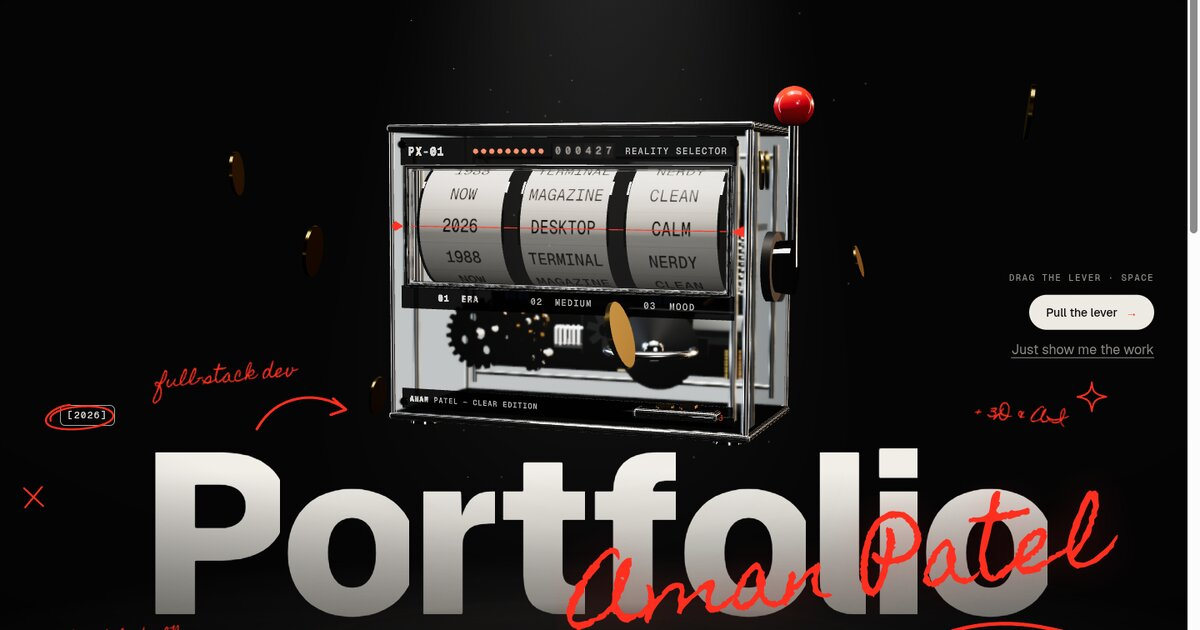
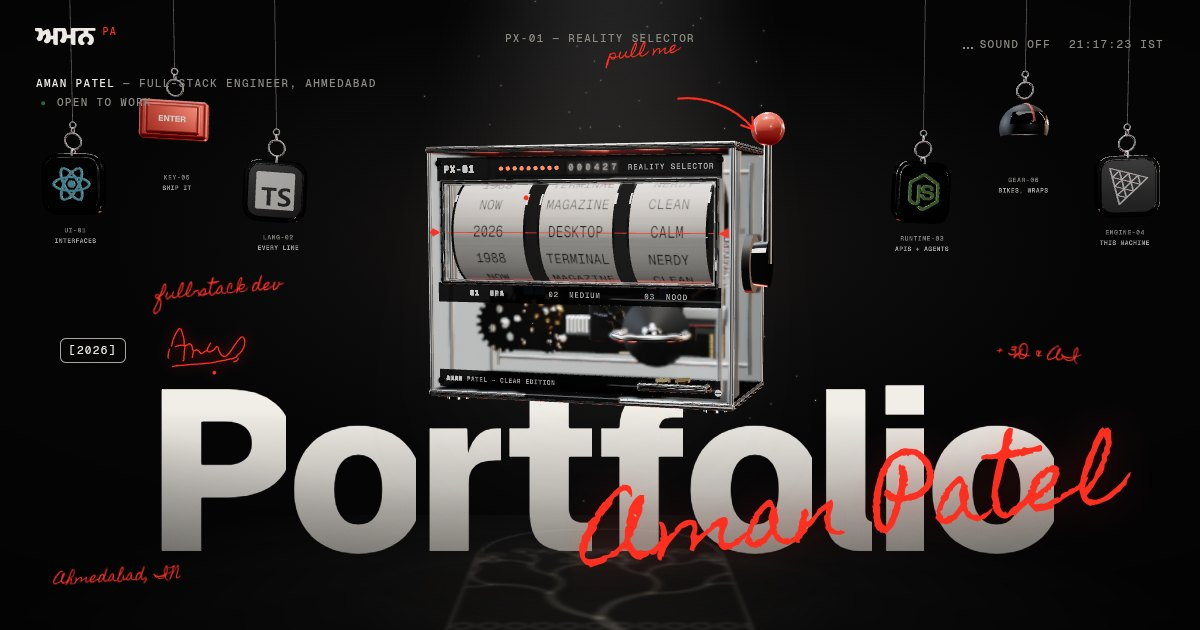
Mobile: swipeable work carousel with counter, compact index, quick dock (Résumé/Email/Work), shorter win ticket on phones; fix handwriting clash with the contact form; short-laptop CTA fit; new OG image

diff --git a/src/home/home.css b/src/home/home.css
@@ -502,20 +502,57 @@
 .hero :is(.ink, .cta, .hero-word, .tabs, .ident, .scroll-hint) { filter: opacity(calc(1 - var(--dive, 0) * 1.8)); }
 
 /* contact note: hairline fields on the dunes */
-.note, .note-sent { width: min(460px, 100%); display: flex; flex-direction: column; gap: 12px; margin-top: 10px; cursor: auto; }
-.note-row { display: grid; grid-template-columns: 1fr 1.3fr; gap: 12px; }
-.note :is(input, textarea) {
+.msg, .msg-sent { width: min(460px, 100%); display: flex; flex-direction: column; gap: 12px; margin-top: 10px; cursor: auto; }
+.msg-row { display: grid; grid-template-columns: 1fr 1.3fr; gap: 12px; }
+.msg :is(input, textarea) {
     font: 400 15px/1.4 "Geist", sans-serif; color: var(--bone); background: rgba(5, 5, 6, .55); backdrop-filter: blur(3px);
     border: 0; border-bottom: 1px solid rgba(237, 234, 227, .22); padding: 12px 2px; outline: none; resize: vertical; border-radius: 0;
     transition: border-color .2s;
 }
-.note :is(input, textarea)::placeholder { color: rgba(237, 234, 227, .4); }
-.note :is(input, textarea):focus { border-bottom-color: var(--signal); }
-.note .hp { position: absolute; left: -9999px; width: 1px; height: 1px; opacity: 0; }
-.note-foot { display: flex; justify-content: space-between; align-items: center; gap: 16px; }
-.note-foot .mono { text-transform: none; letter-spacing: .02em; }
-.note-foot a { color: var(--bone); }
-.home .note .block-btn:disabled { opacity: .6; cursor: progress; }
-.note-sent p:last-child { margin: 0; font: 400 15px/1.5 "Geist", sans-serif; color: var(--bone); }
-.note-sent .red { color: var(--signal); }
-@media (max-width: 760px) { .note-row { grid-template-columns: 1fr; } }
+.msg :is(input, textarea)::placeholder { color: rgba(237, 234, 227, .4); }
+.msg :is(input, textarea):focus { border-bottom-color: var(--signal); }
+.msg .hp { position: absolute; left: -9999px; width: 1px; height: 1px; opacity: 0; }
+.msg-foot { display: flex; justify-content: space-between; align-items: center; gap: 16px; }
+.msg-foot .mono { text-transform: none; letter-spacing: .02em; }
+.msg-foot a { color: var(--bone); }
+.home .msg .block-btn:disabled { opacity: .6; cursor: progress; }
+.msg-sent p:last-child { margin: 0; font: 400 15px/1.5 "Geist", sans-serif; color: var(--bone); }
+.msg-sent .red { color: var(--signal); }
+@media (max-width: 760px) { .msg-row { grid-template-columns: 1fr; } }
+
+/* ------------------------------------------------------------ phones: swipe the work, compact index, quick dock */
+.swipe-hint, .dock-m { display: none; }
+@media (max-width: 760px) {
+    .cards {
+        display: flex; gap: 14px; overflow-x: auto; scroll-snap-type: x mandatory; overscroll-behavior-x: contain;
+        margin: 0 calc(var(--gutter) * -1); padding: 4px var(--gutter) 6px; scrollbar-width: none;
+    }
+    .cards::-webkit-scrollbar { display: none; }
+    .card { flex: 0 0 84%; scroll-snap-align: center; animation: none; }
+    .card-line { font-size: 13.5px; }
+    .swipe-hint { display: flex; justify-content: space-between; margin-top: 18px !important; }
+    .swipe-hint span { color: var(--signal); }
+    .card-meta .live { display: table; margin: 8px 0 0; }
+    .filters { flex-wrap: nowrap; overflow-x: auto; margin: 0 calc(var(--gutter) * -1); padding: 0 var(--gutter); scrollbar-width: none; }
+    .home .filters button { flex: none; }
+    .keys { grid-template-columns: 1fr 1fr; gap: 22px 12px; }
+    .keys-group:first-child { grid-column: 1 / -1; }
+    .home .key { padding: 12px 30px 12px 12px; }
+    .key .k-label { font-size: 15px; }
+    .keys-group:not(:first-child) .k-hint { display: none; }
+    .keys-sub { font-size: 12px; margin-bottom: 10px; }
+    .dock-m {
+        display: flex; position: fixed; z-index: 60; left: 50%; bottom: calc(14px + env(safe-area-inset-bottom)); transform: translate(-50%, 140%);
+        gap: 4px; padding: 6px; border-radius: 999px; background: rgba(20, 20, 22, .82); border: 1px solid rgba(237, 234, 227, .14);
+        backdrop-filter: blur(14px); -webkit-backdrop-filter: blur(14px); box-shadow: 0 16px 40px rgba(0, 0, 0, .5);
+        transition: transform .5s cubic-bezier(.16, 1, .3, 1); white-space: nowrap;
+    }
+    .dock-m[data-on] { transform: translate(-50%, 0); }
+    .home .dock-m > * { font: 500 13px/1 "Geist", sans-serif; color: var(--bone); text-decoration: none; padding: 11px 14px; border-radius: 999px; display: inline-flex; align-items: center; }
+    .dock-m > a:first-child { background: var(--bone); color: #0b0b0c; }
+    .dock-m > *:active { transform: scale(.95); }
+    .dock-m .k-dot { width: 14px; height: 14px; border-radius: 50%; background: radial-gradient(circle at 35% 30%, #ff8a7a, var(--signal) 45%, #8f140b); box-shadow: 0 0 14px rgba(255, 46, 31, .6); }
+}
+
+/* short laptop screens (1366×768 and below): the CTA's explainer line would run into the keychain labels */
+@media (min-width: 761px) and (max-height: 780px) { .cta-sub { display: none; } .cta { top: 54%; } }

diff --git a/src/home/Home.jsx b/src/home/Home.jsx
@@ -174,21 +174,21 @@ const ContactForm = ({ onSent }) => {
         } catch { setState({ phase: "fallback", msg: "", href: mail() }); }
     };
     if (state.phase === "sent") return (
-        <div className="note-sent" role="status">
+        <div className="msg-sent" role="status">
             <p className="mono red">Delivered{state.msg ? ` · ${state.msg}` : ""}</p>
             <p>Thanks. It's in my inbox, and my reply goes to the address you gave.</p>
         </div>
     );
     return (
-        <form className="note" onSubmit={submit}>
+        <form className="msg" onSubmit={submit}>
             <p className="mono">Or send a note through the machine</p>
-            <div className="note-row">
+            <div className="msg-row">
                 <input name="name" required maxLength={80} placeholder="Your name" autoComplete="name" aria-label="Your name" />
                 <input name="email" type="email" required maxLength={200} placeholder="Email" autoComplete="email" aria-label="Your email" />
             </div>
             <textarea name="message" required minLength={10} maxLength={4000} rows={3} placeholder="What are we building?" aria-label="Message" />
             <input name="website" tabIndex={-1} autoComplete="off" className="hp" aria-hidden />
-            <div className="note-foot">
+            <div className="msg-foot">
                 <p className="mono" aria-live="polite">
                     {state.phase === "fallback" ? <a href={state.href}>{state.msg || "The machine is offline."} Open it in your mail app ↗</a> : state.msg}
                 </p>
@@ -227,6 +227,8 @@ const Home = ({ onSelect }) => {
     const enterBtn = useRef(null);
     const heroOn = useInView(hero);
     const footerOn = useInView(footer, "200px");
+    const land = useRef(null);
+    const landOn = useInView(land);                  // the contact area (the quick dock hides there: same actions on screen)
     const [fontsOk, setFontsOk] = useState(false);
     const [booted, setBooted] = useState(false);
     const [phase, setPhase] = useState("idle");
@@ -428,7 +430,7 @@ const Home = ({ onSelect }) => {
                 <Experience />
                 <Skills />
 
-                <div className="land" onClick={ripple}>
+                <div ref={land} className="land" onClick={ripple}>
                     <div className="foot-dots" aria-hidden>
                         <Suspense fallback={null}><DotField active={footerOn} eventSource={footer} pulse={pulse} /></Suspense>
                     </div>
@@ -478,6 +480,13 @@ const Home = ({ onSelect }) => {
                     </div>
                 </div>
             </footer>
+            {/* phones: résumé and email stay one tap away once the machine is off screen */}
+            <nav className="dock-m" data-on={(!heroOn && !landOn) || undefined} aria-label="Quick actions">
+                <a href={profile.resume} target="_blank" rel="noreferrer" onClick={() => track("resume_opened", { from: "dock" })}>Résumé ↓</a>
+                <a href={`mailto:${profile.email}`}>Email</a>
+                <button type="button" onClick={() => document.querySelector(".work")?.scrollIntoView({ behavior: "smooth" })}>Work</button>
+                <button type="button" aria-label="Back to the machine" onClick={() => hero.current.scrollIntoView({ behavior: "smooth" })}><i className="k-dot" aria-hidden /></button>
+            </nav>
             <Cursor />
         </main>
     );

diff --git a/src/home/Work.jsx b/src/home/Work.jsx
@@ -12,6 +12,7 @@ const host = (u = "") => u.replace(/^https?:\/\//, "").replace(/\/$/, "");
 const FIRST = 9;
 const reduced = () => matchMedia("(prefers-reduced-motion: reduce)").matches;
 const touch = () => matchMedia("(pointer: coarse)").matches;
+const phone = () => matchMedia("(max-width: 760px)").matches;
 const linkedin = socials.find((s) => s.text === "LinkedIn")?.link;
 
 const Leaving = ({ item, rect }) => {
@@ -39,7 +40,9 @@ export default function Work() {
     const list = useRef(null);
 
     const shown = work.filter((w) => kind === "all" || w.kind === kind);
-    const visible = all ? shown : shown.slice(0, FIRST);
+    const [isPhone] = useState(phone);                  // phones: every card in one swipeable row
+    const visible = all || isPhone ? shown : shown.slice(0, FIRST);
+    const [at, setAt] = useState(0);
 
     // back from the project (bfcache) → drop the transition overlay
     useEffect(() => {
@@ -50,10 +53,14 @@ export default function Work() {
     // touch: the card in the middle of the screen is "hovered"
     useEffect(() => {
         if (!touch()) return;
-        const io = new IntersectionObserver((es) => es.forEach((e) => e.isIntersecting && setActive(e.target.dataset.slug)), { rootMargin: "-40% 0px -40% 0px" });
+        const io = new IntersectionObserver((es) => es.forEach((e) => {
+            if (!e.isIntersecting) return;
+            setActive(e.target.dataset.slug);
+            setAt([...list.current.children].indexOf(e.target));
+        }), isPhone ? { root: list.current, rootMargin: "0px -45% 0px -45%" } : { rootMargin: "-40% 0px -40% 0px" });
         list.current.querySelectorAll(".card").forEach((c) => io.observe(c));
         return () => io.disconnect();
-    }, [kind, all]);
+    }, [kind, all, isPhone]);
 
     const open = (e, item) => {
         track("project_opened", { project: item.slug, kind: item.kind });
@@ -86,7 +93,7 @@ export default function Work() {
                     {Object.entries({ all: "All", ...KINDS }).map(([k, label]) => {
                         const n = k === "all" ? work.length : work.filter((w) => w.kind === k).length;
                         return (
-                            <button key={k} type="button" role="tab" aria-selected={kind === k} onClick={() => { setKind(k); setAll(false); }}>
+                            <button key={k} type="button" role="tab" aria-selected={kind === k} onClick={() => { setKind(k); setAll(false); setAt(0); list.current?.scrollTo({ left: 0 }); }}>
                                 {label} <span className="mono">{n}</span>
                             </button>
                         );
@@ -121,7 +128,8 @@ export default function Work() {
                     </li>
                 ))}
             </ul>
-            {shown.length > FIRST && (
+            {isPhone && <p className="mono swipe-hint" aria-hidden><span>{String(at + 1).padStart(2, "0")} / {String(shown.length).padStart(2, "0")}</span> Swipe for more →</p>}
+            {!isPhone && shown.length > FIRST && (
                 <button type="button" className="more" onClick={() => setAll((v) => !v)}>
                     {all ? "Show fewer" : `Show all ${shown.length} ${kind === "all" ? "projects" : KINDS[kind].toLowerCase()}`}
                 </button>

diff --git a/src/machine/MachineModel.jsx b/src/machine/MachineModel.jsx
@@ -1,6 +1,6 @@
 import { useEffect, useMemo, useRef } from "react";
 import * as THREE from "three";
-import { useFrame } from "@react-three/fiber";
+import { useFrame, useThree } from "@react-three/fiber";
 import { RoundedBox, Text } from "@react-three/drei";
 import { worlds } from "#worlds/registry.js";
 import { sfx } from "./sfx.js";
@@ -529,6 +529,7 @@ const Payout = ({ jackpot }) => {
 const TICKET_H = 1.05;
 const Ticket = ({ ticket, onTicket }) => {
     const root = useRef(), paper = useRef(), t = useRef(0), hot = useRef(false);
+    const narrow = useThree((st) => st.size.width / st.size.height < 0.62);   // tall phones: shorter ticket so it clears the result card
     useFrame(({ clock }, dt) => {
         t.current = ticket ? t.current + dt : 0;
         if (ticket && t.current - dt < 0.45 && t.current >= 0.45) sfx.print();
@@ -541,7 +542,7 @@ const Ticket = ({ ticket, onTicket }) => {
     return (
         <group position={[0, -1.24, 0.92]}>
             <mesh material={mat.black}><boxGeometry args={[1.0, 0.035, 0.06]} /></mesh>
-            <group ref={root} visible={false} scale={1.3}>
+            <group ref={root} visible={false} scale={narrow ? 0.9 : 1.3}>
                 <group ref={paper}>
                     <group position={[0, -TICKET_H / 2, 0]}>
                         <mesh onClick={(e) => { e.stopPropagation(); onTicket?.(); }}
